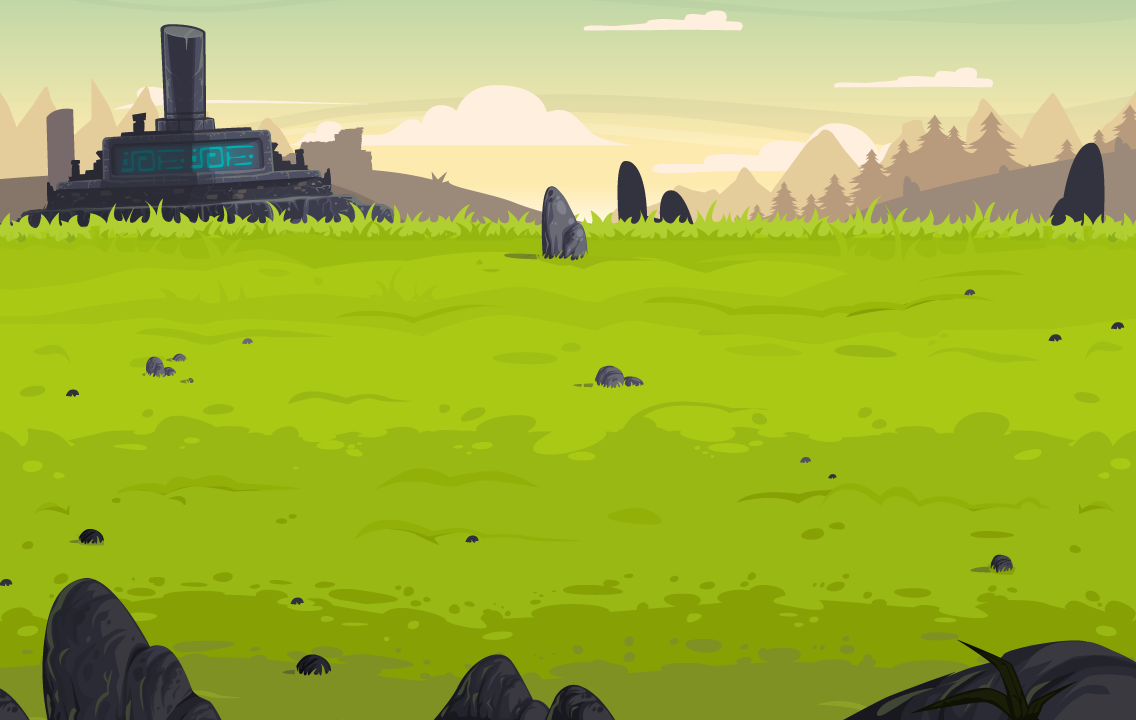
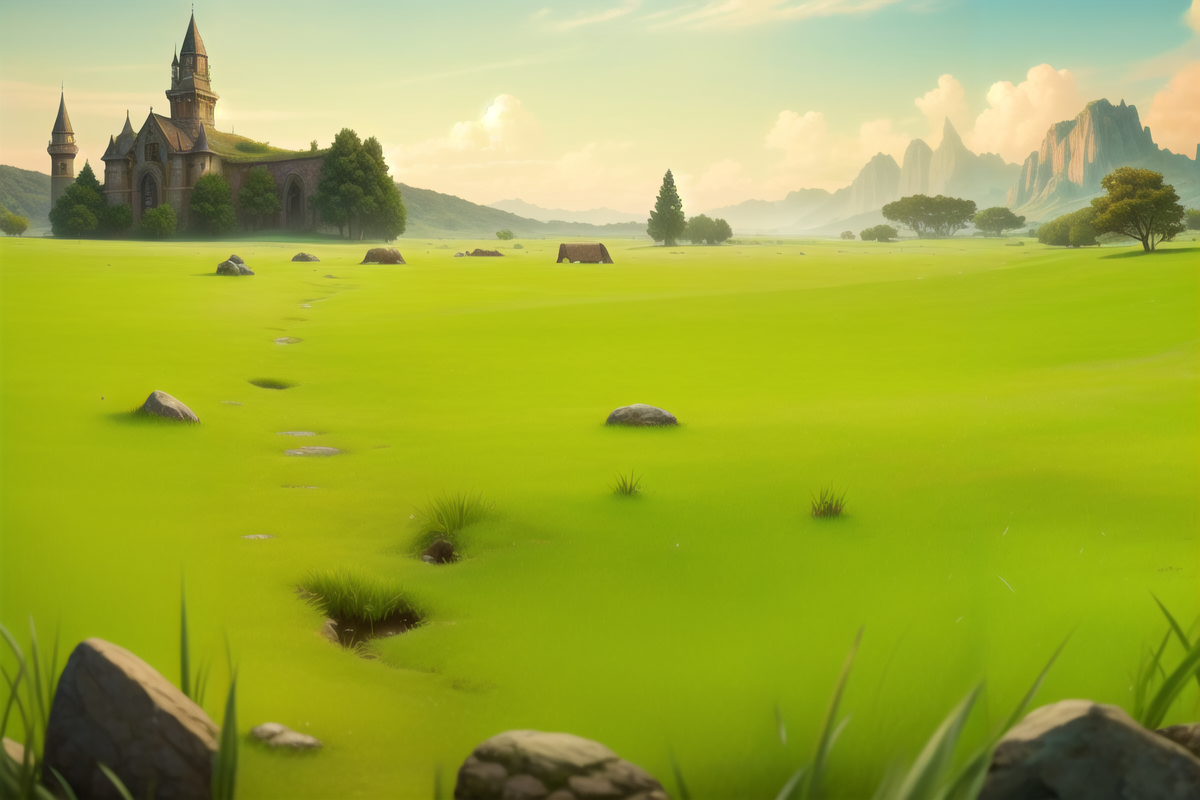
changed background image

diff --git a/Assessment2RPG/src/assessment2rpg/BattleManager.java b/Assessment2RPG/src/assessment2rpg/BattleManager.java
@@ -364,8 +364,7 @@ public class BattleManager {
         {
             case ("warrior"): //if user is playing warrior
             {
-                
-                if (playerTurnsCharged<3)
+                if (playerTurnsCharged<2)
                 {
                     playerTurnsCharged++;
                     break;
@@ -380,6 +379,7 @@ public class BattleManager {
                     damageEnemy(hitDamage, battleEnemy, RPGEnemy.enemyClass.getDefense());
                     //calls damageEnemy method to damage battleEnemy's health by the provided hitdamage and accounting for the enemy class's defense
                 }
+                playerTurnsCharged = 0;
                 playerCharge = false; //sets the playerCharge boolean to false indicating the ability is finished casting
                 break; //returns to battle menu
             }
@@ -487,7 +487,7 @@ public class BattleManager {
                         && (enemyHealth < (RPGEnemy.enemyClass.getHealthPoints() / 2)) //and thye are below half health
                         && (enemyPhaseChange != true))// and if enemy phase change is not yet true
                 {
-                    combatLog = combatLog.concat(RPGEnemy.enemyClass.name + " gets so angry it loses it's head and vows to take you down!"
+                    combatLog = combatLog.concat(RPGEnemy.enemyClass.name + " gets so angry it catches on fire and vows to take you down!"
                             + "\nYou dont think this is a normal skeleton anymore!");
                     RPGEnemy.enemyClass.name = "Revenant"; //changes enemy name from skeleton to Revenant
                     enemyPhaseChange = true;  //and sets enemyPhaseChange to true
@@ -496,7 +496,7 @@ public class BattleManager {
                 {
                     enemyDefend = true; //sets enemyDefend to true
                     RPGEnemy.enemyClass.addDebuff("Vulnerable", 2); //inflicts 2 stacks of vulnerable to it's own status effect hashmap
-                    if ("Revenant".equals(RPGEnemy.enemyClass.name)) //if the enemy is called Revenant, it triggeres a different description
+                    if ("Revenant".equals(RPGEnemy.enemyClass.name)) //if the enemy is called Revenant, it triggers a different description
                     {
                         combatLog = combatLog.concat(RPGEnemy.enemyClass.name + " taps into its sheer rage and pulls itself back together."
                                 + "\nIt looks easier to damage right now!");
@@ -514,7 +514,7 @@ public class BattleManager {
                     if ("Revenant".equals(RPGEnemy.enemyClass.name)) //if enemy is revenant triggers a more powerful version of the ability
                     {
                         combatLog = combatLog.concat(RPGEnemy.enemyClass.name + " rips off one of its ribs and throws it at you in anger.\nIt seems to hurt itself when it does this!\n");
-                        enemyHealth = enemyHealth - (int) (RPGEnemy.enemyClass.getHealthPoints() * 0.08); // deals damage to itself equal to 8% of its max health
+                        enemyHealth = enemyHealth - (int) (RPGEnemy.enemyClass.getHealthPoints() * 0.05); // deals damage to itself equal to 5% of its max health
                         combatLog = combatLog.concat(RPGEnemy.enemyClass.name + " took " + (int) (RPGEnemy.enemyClass.getHealthPoints() * 0.08) + " Damage!");
                         directDamage = (int) ((Integer.parseInt(RPGEnemy.enemyClass.getAbility(1).get(2))) * 1.5); //dealts 1.5 times the usual damage of the ability
                         hitDamage = calculateDamageDirect(directDamage);
@@ -526,7 +526,7 @@ public class BattleManager {
                     } else //if not a revenant trigger the normal version of the ability
                     {
                         combatLog = combatLog.concat(RPGEnemy.enemyClass.name + " takes one of it's bones and throws it at you.\nIt seems to hurt itself when it does this!\n");
-                        enemyHealth = enemyHealth - (int) (RPGEnemy.enemyClass.getHealthPoints() * 0.1); //loses 10% of its health
+                        enemyHealth = enemyHealth - (int) (RPGEnemy.enemyClass.getHealthPoints() * 0.08); //loses 8% of its health
                         combatLog = combatLog.concat(RPGEnemy.enemyClass.name + " took " + (int) (RPGEnemy.enemyClass.getHealthPoints() * 0.1) + " Damage!\n");
                         directDamage = (Integer.parseInt(RPGEnemy.enemyClass.getAbility(1).get(2))); // sets directDamage to the damage value of the ability
                         hitDamage = calculateDamageDirect(directDamage);

diff --git a/Assessment2RPG/src/assessment2rpg/BattleFrame.java b/Assessment2RPG/src/assessment2rpg/BattleFrame.java
@@ -576,11 +576,15 @@ public class BattleFrame extends javax.swing.JFrame {
         jLayeredPane.add(jPanel7);
         jPanel7.setBounds(180, 430, 221, 66);
 
+        jLabel3.setHorizontalAlignment(javax.swing.SwingConstants.CENTER);
         jLabel3.setIcon(new javax.swing.ImageIcon(getClass().getResource("/assessment2rpg/Images/battleBGGrass.png"))); // NOI18N
         jLabel3.setBorder(javax.swing.BorderFactory.createEtchedBorder());
+        jLabel3.setMaximumSize(new java.awt.Dimension(1200, 800));
+        jLabel3.setMinimumSize(new java.awt.Dimension(1200, 800));
         jLabel3.setOpaque(true);
+        jLabel3.setPreferredSize(new java.awt.Dimension(1200, 800));
         jLayeredPane.add(jLabel3);
-        jLabel3.setBounds(50, 70, 1140, 720);
+        jLabel3.setBounds(20, 30, 1200, 800);
         jLayeredPane.remove(jLabel3);
         jLayeredPane.add(jLabel3,20);
 
